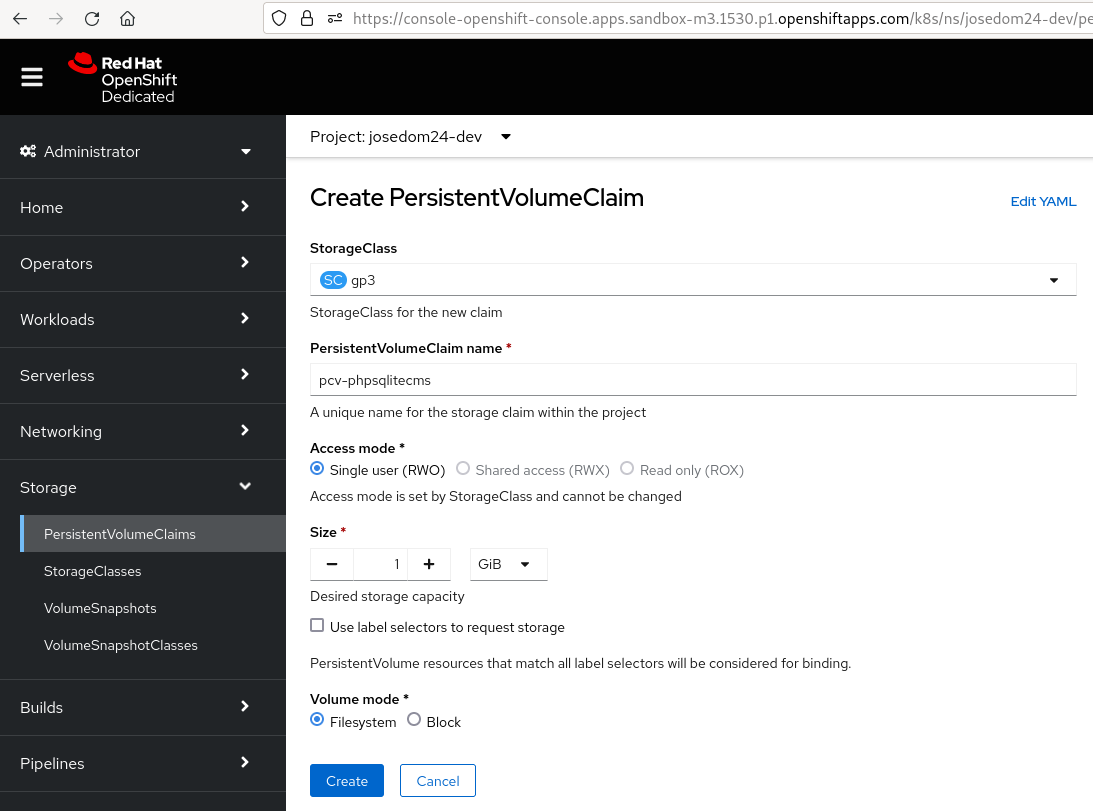
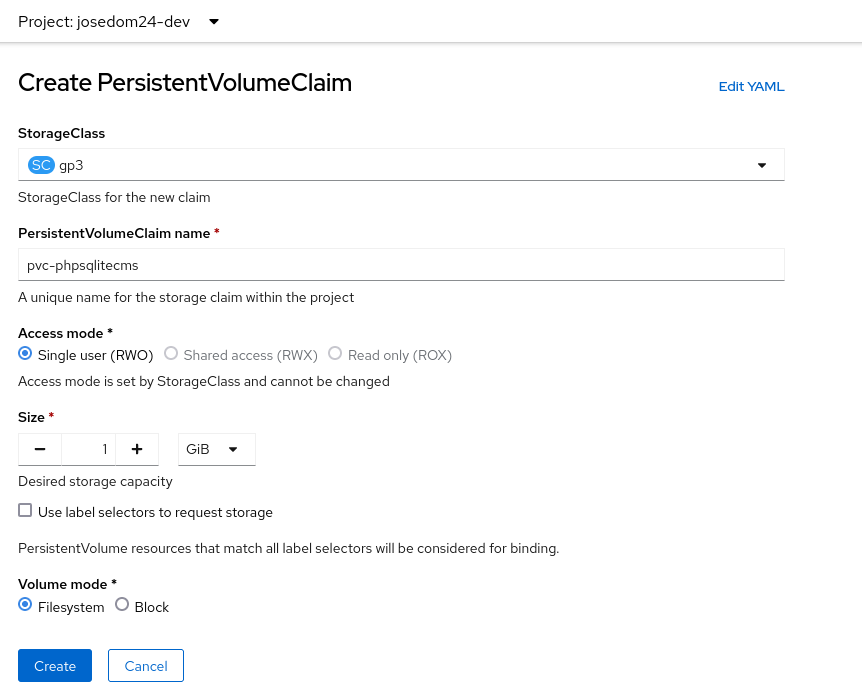
Módulo8

diff --git a/curso2/modulo8/phpsqlitecms.md b/curso2/modulo8/phpsqlitecms.md
@@ -42,7 +42,11 @@ Indicando el objeto **PersistentVolumenClaim** que hemos creado, y directorio do
 
 ![phpsqlitecms](img/phpsqlitecms6.png)
 
-Se ha actualizado el despliegue, se ha creado un nuevo pod con la nueva versión (el volumen montado en el directorio) y accedemos a la aplicación para comprobar si funciona:
+Se ha actualizado el despliegue, se ha creado un nuevo pod con la nueva versión (el volumen montado en el directorio) y podemos comprobar que el **PersistentVolumenClaim** se ha asociado con un **PersistentVolumen**:
+
+![phpsqlitecms](img/phpsqlitecms12.png)
+
+Accedemos a la aplicación para comprobar si funciona:
 
 ![phpsqlitecms](img/phpsqlitecms7.png)
 

diff --git a/curso2/README.md b/curso2/README.md
@@ -68,7 +68,7 @@
 	* [Almacenamiento en RedHat OpenShift Dedicated Developer Sandbox](modulo8/almacenamiento_sandbox.md)
 	* [Ejemplo 1: Gestión de almacenamiento desde la consola web: phpsqlitecms](modulo8/phpsqlitecms.md)
 	* [Ejemplo 2: Gestión de almacenamiento desde la línea de comandos: GuestBook](modulo8/guestbook.md)
-	* Ejemplo completo: Haciendo persistente la aplicación Wordpress
+	* [Ejemplo 3: Haciendo persistente la aplicación Wordpress](modulo8/wordpress.md)
 
 9. OpenShift Pipelines
 	
